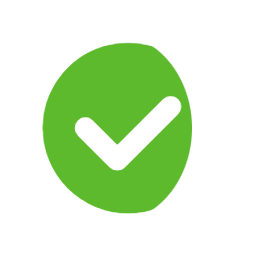
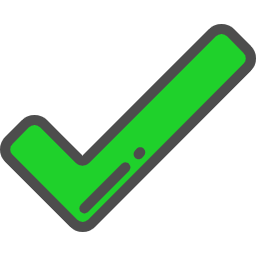
Chagement de l'image check

diff --git a/src/app/taches/todo-list/todo-list.component.html b/src/app/taches/todo-list/todo-list.component.html
@@ -12,7 +12,10 @@
         @if (!tache.fait) {
         <li [ngClass]="{'pending': !tache.fait}">
             {{tache.titre}}
-            <img [src]="checkTache" class="check" (click)="tacheFaite(tache.titre)">
+            <div>
+                <img [src]="checkTache" class="check" (click)="tacheFaite(tache.titre)">
+                <img [src]="deleteTache" class="delete" (click)="supprimerTache(tache.titre)">
+            </div>
         </li>
         }
         }

diff --git a/src/app/taches/todo-list/todo-list.component.scss b/src/app/taches/todo-list/todo-list.component.scss
@@ -8,8 +8,6 @@ h2 {
     color: #2e7d32;
     border-bottom: 2px solid #2e7d32;
     padding-bottom: 5px;
-    display: flex;
-    justify-content: center;
 }
 
 input {
